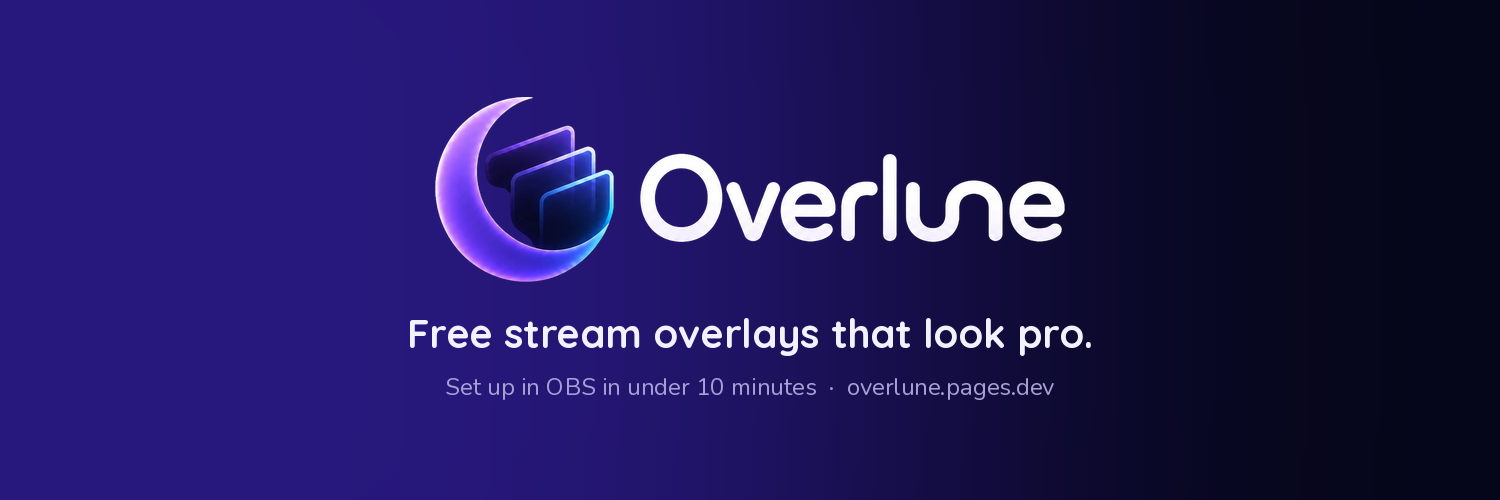
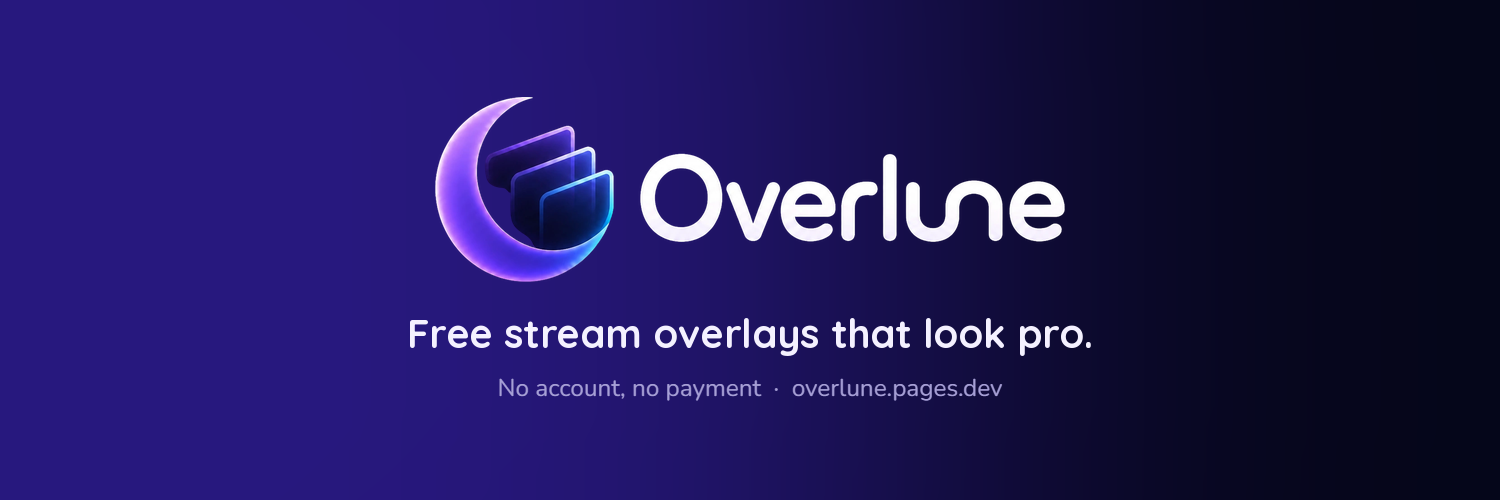
copy: drop the "under 10 minutes" claim (T6.61)
The owner called it unrealistic. It's gone from the page description and
link-preview text, the README, CLAUDE.md, PRD, BRAND and DESIGN docs. The
link-preview image and social banners had the line redrawn as "No account,
no payment" in the same font, size and color; the rest is untouched.

Changed region(s): [[0.3067, 0.75, 0.7053, 0.81]]

diff --git a/index.html b/index.html
@@ -10,14 +10,14 @@
     <title>Overlune</title>
     <meta
       name="description"
-      content="Free stream overlays that look pro. Set up in OBS in under 10 minutes. No account, no payment."
+      content="Free stream overlays that look pro. Paste one link per overlay into OBS. No account, no payment."
     />
     <meta property="og:type" content="website" />
     <meta property="og:site_name" content="Overlune" />
     <meta property="og:title" content="Overlune: free stream overlays that look pro" />
     <meta
       property="og:description"
-      content="Starting Soon, BRB and Ending scenes, a Twitch chat skin and alerts in 8 matching themes. Set up in OBS in under 10 minutes."
+      content="Starting Soon, BRB and Ending scenes, a Twitch chat skin and alerts in 8 matching themes. No account, no payment."
     />
     <meta property="og:url" content="https://overlune.pages.dev/" />
     <meta property="og:image" content="https://overlune.pages.dev/images/brand/og-image.png" />

diff --git a/docs/TASKS.md b/docs/TASKS.md
@@ -306,6 +306,10 @@ Found by going through the live site after T6.44-T6.53. One branch and PR per ta
 - [ ] **T6.58 The save box keeps its shape.** Opening "Load my overlay from a link" or "Start over" rearranges the save box (a button jumps to its own line, the paste field stays open under the start-over question) and grows it by about 150px.
   - Accept: the buttons stay where they are, only one of the two panels is open at a time, Escape closes it and returns focus to its button, and the panel opens under the buttons. e2e.
 
+- [ ] **T6.61 Drop the "under 10 minutes" claim.** The owner called it unrealistic (2026-10-02). It was in the page description and link preview text, the link-preview image and every social banner, the README and the brand and product docs.
+  - Accept: no page, meta tag, image or doc promises a setup time. Banners keep their design with a new second line.
+  - *Built 2026-10-02 on `fix/countdown-card-centered` (with T6.54). Meta description and link-preview text: "Paste one link per overlay into OBS. No account, no payment." The link-preview image and the GitHub, Twitch, X, YouTube and Discord banners had the line erased and redrawn in the same Nunito, size and Haze color as "No account, no payment · overlune.pages.dev" (logo and tagline untouched). README, CLAUDE.md, PRD (the success metric now measures without promising a time), BRAND.md (support tagline and voice), DESIGN.md and the Stitch file updated. The guide's "About 5 minutes" is left for the owner to decide. Waiting for the owner's check.*
+
 ### Mockup ideas, the honest v1 pass (2026-10-02)
 The owner shared AI-generated mockups (dark night palette, crescent moon, glowing panel edges, app-shell editor). Take the good design ideas only, with everything shown true for v1 today: no pricing, upgrade, sign in, My Overlays, template counts, drag and drop, HD or video export, donation alerts, other platforms' chat, AI landscape art, gradient text on every heading, glow on every card, or "Create Stunning…" copy. docs/V2-PLAN.md maps the v2-only screens to their phases.
 

diff --git a/docs/PRD.md b/docs/PRD.md
@@ -1,7 +1,7 @@
 # Overlune: Product Requirements (v1)
 
 ## Value proposition
-Free, good-looking, matching stream overlays that a brand-new streamer can set up in OBS in **under 10 minutes**, with no account, no payment and no design skills.
+Free, good-looking, matching stream overlays that a brand-new streamer can set up in OBS on their own, with no account, no payment and no design skills.
 
 ## User pain
 - Custom overlay packs cost $20–100+.
@@ -76,7 +76,7 @@ The free alternatives are StreamElements and Streamlabs themes, OWN3D freebies a
 
 ## Success metrics
 We measure these without tracking users:
-- **Time to first overlay live in OBS: under 10 minutes.** Measured by watching 5 newcomers set it up without help.
+- **First overlay live in OBS without help.** Measured by watching 5 newcomers set it up (T5.7). We note how long it takes, but don't promise a time (the owner dropped the "under 10 minutes" claim as unrealistic, 2026-10-02).
 - **5 real streamers using it live** within 2 weeks of launch. The builder is streamer #1 from week 1.
 - **Zero broken old links.** Enforced by the old-link tests in CI.
 - **Overlay performance:** each overlay under 5% CPU in OBS on a mid-range PC (checked per `docs/OBS-TESTING.md`).

diff --git a/docs/stitch/DESIGN.md b/docs/stitch/DESIGN.md
@@ -74,7 +74,7 @@ All screens are dark. Every text pair meets WCAG AA (4.5:1 for text, 3:1 for con
 - No centered hero, no three equal cards in a row, no overlapping text.
 - No stock photos or placeholder images: every picture is a real Overlune scene.
 - No meta-labels ("SECTION 01"), no "Scroll to explore", scroll arrows or bouncing chevrons.
-- No invented reviews, user counts, ratings or round-number stats. "Set up in under 10 minutes" waits until it is measured.
+- No invented reviews, user counts, ratings or round-number stats, and no promised setup times.
 - No hype words ("Elevate", "Seamless", "Unleash", "Next-Gen", "premium", "unlock"); nothing that hints at a paywall. Overlune is free with no account, and says so plainly.
 - No jargon a first-time streamer wouldn't know: "Link to paste into OBS", not "Browser Source URL".
 - No custom cursors. No state shown by color alone.

diff --git a/docs/DESIGN.md b/docs/DESIGN.md
@@ -148,7 +148,7 @@ Write for a streamer opening OBS for the first time: concise, confident, helpful
 - Name what they see: "Link to paste into OBS", not "Browser Source URL"; "Their name", not `{user}`.
 - Buttons are verbs, 1–3 words, sentence case: "Copy link", "Start over", "Load my overlay from a link".
 - Errors say what happened and what to do: "No picture loaded from this link. Check that it opens an image in your browser, not a web page."
-- Say "free" and "no account" plainly. No unmeasured claims (the "under 10 minutes" line waits for T5.7).
+- Say "free" and "no account" plainly. No unmeasured claims and no promised setup times (the owner dropped "under 10 minutes" as unrealistic, 2026-10-02).
 
 ### Anti-patterns
 - Don't add a second filled button style or a new accent color; use outline buttons.

diff --git a/docs/BRAND.md b/docs/BRAND.md
@@ -51,11 +51,11 @@ The wordmark is artwork. Don't retype "Overlune" in a font to stand in for it.
 Friendly, plain and confident, like a streamer friend who knows OBS.
 - Lead with what people get: "Free stream overlays that look pro."
 - Say "free" and "no account" plainly. Never "premium", "unlock" or anything that hints at a paywall.
-- Short sentences, real numbers ("set up in under 10 minutes"), no hype words.
+- Short sentences, real numbers ("8 looks"), no hype words, and no promised setup times.
 
 Taglines:
 - Primary: **Free stream overlays that look pro.**
-- Support: Set up in OBS in under 10 minutes. No account, no payment.
+- Support: No account, no payment.
 
 ## Social assets (`docs/brand/social/`)
 | File | Size | Notes |

diff --git a/CLAUDE.md b/CLAUDE.md
@@ -2,7 +2,7 @@
 
 Project rules for Claude Code. Follow these on every task. If a rule conflicts with a request, say so before proceeding.
 
-**Overlune** is a free, open-source stream overlay maker. It gets a new streamer from zero to a stream that looks professionally designed in under 10 minutes.
+**Overlune** is a free, open-source stream overlay maker. It gets a new streamer from zero to a stream that looks professionally designed, with no account and no payment.
 - Product: `docs/PRD.md`
 - Tasks: `docs/TASKS.md`
 - Stack and folders: `docs/STACK.md`

diff --git a/README.md b/README.md
@@ -1,6 +1,6 @@
 # Overlune
 
-Free, open-source stream overlays that look professionally designed, set up in OBS in under 10 minutes. No account, no payment.
+Free, open-source stream overlays that look professionally designed. Paste one link per overlay into OBS. No account, no payment.
 
 It includes:
 - Starting Soon, BRB and Stream Ending scenes
